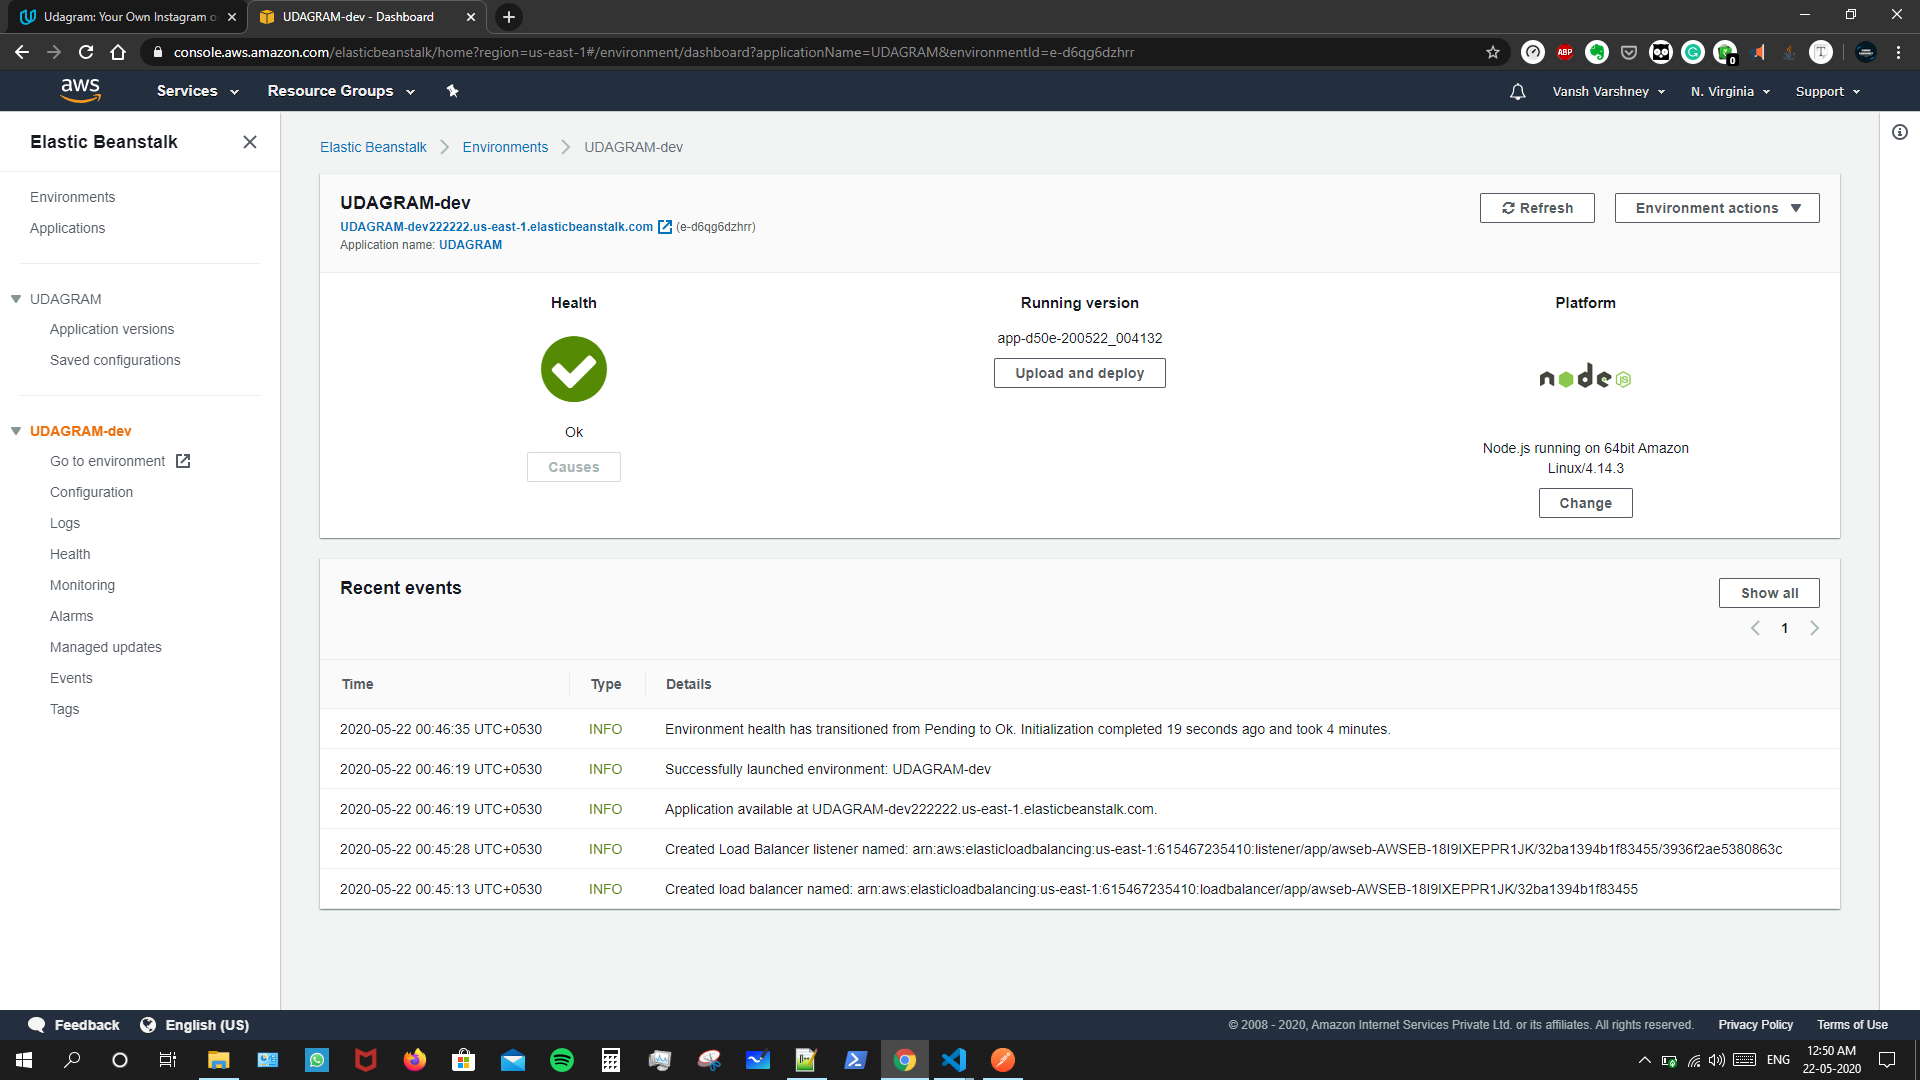
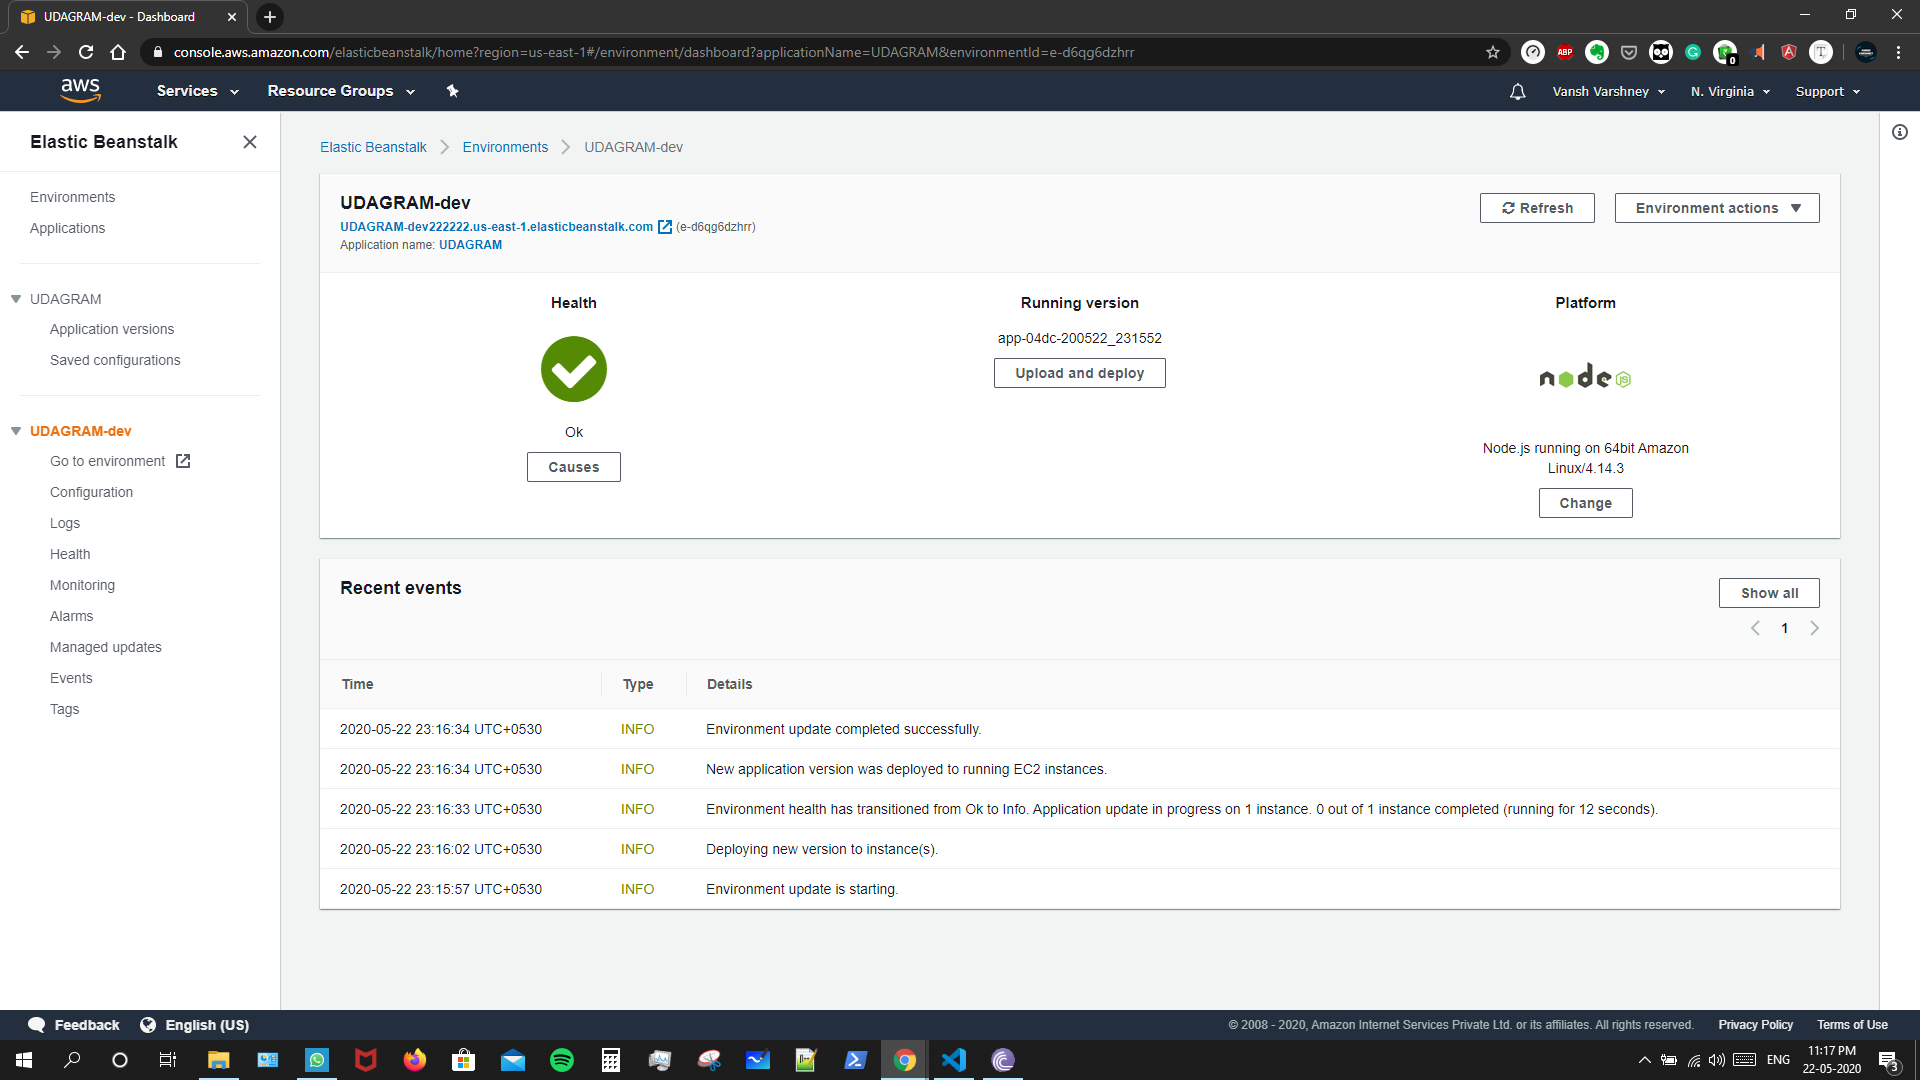
Issue fixed Updateing Server.ts

diff --git a/src/server.ts b/src/server.ts
@@ -1,8 +1,7 @@
-import express from 'express';
-import bodyParser from 'body-parser';
-import {filterImageFromURL, deleteLocalFiles} from './util/util';
-import { Request, Response } from 'express';
+import express, { Request, Response } from 'express';
 
+import bodyParser from 'body-parser';
+import { filterImageFromURL, deleteLocalFiles } from './util/util';
 
 (async () => {
 
@@ -12,63 +11,40 @@ import { Request, Response } from 'express';
   // Set the network port
   const port = process.env.PORT || 8082;
 
-  const image_url = /(http(s?):)([/|.|\w|\s|-])*\.(?:jpeg|jpg|gif|png|svg)/
-  
+  // Use the body parser middleware for post requests
   app.use(bodyParser.json());
-  
-  app.use(function (Request, Response, next) {
-    if (Request.path != '/filteredimage') {
-      Response.send("try GET /filteredimage?image_url={{}}")
-    }
-    next()
-  })
 
-  app.get("/filteredimage", async (Request, Response) => {
- 
-    let { image_url } = Request.query;
-    
+  app.get("/filteredimage/", async (req: Request, res: Response) => {
+    let { image_url } = req.query;
+
     if (!image_url) {
-      Response.status(400).send("Image Url Missing")
-    }else {
-
-      console.log(image_url.match(image_url))
-      if (!image_url.match(image_url)) {
-        Response.status(400).send("Give The Url Of Image")
-      }else {
-        
-        try {
-          let image_Response = await filterImageFromURL(image_url)
-    
-          if(image_Response != "no image found"){
-            Response.status(200).sendFile(image_Response, async callback=>{
-              await deleteLocalFiles([image_Response])
-            })
-          } else {
-            Response.status(200).send("Error No Image URL")
-          }
-        } catch (err) {
-          
-          console.error(err)
-          Response.status(200).send("Failed")
-        }
-      }
+      return res.status(400).send(`image_url is required`);
     }
-  } );
 
-  
+    try {
+      const filteredpath = await filterImageFromURL(image_url)
 
-  //! END @TODO1
-  
+      await res.status(200).sendFile(filteredpath, {}, (err) => {
+        if (err) { return res.status(422).send(`Not able to process the image`); }
+        // Deleting the used image file.
+        deleteLocalFiles([filteredpath])
+      })
+    } catch (err) {
+      res.status(422).send(`Not able to process the image, Make sure image url is correct`);
+    }
+  });
+
+
   // Root Endpoint
   // Displays a simple message to the user
-  app.get( "/", async ( Request, Response ) => {
-    Response.send("try GET /filteredimage?image_url={{}}")
-  } );
-  
+  app.get("/", async (req, res) => {
+    res.status(200).send("try GET /filteredimage?image_url={{}}")
+  });
+
 
   // Start the Server
-  app.listen( port, () => {
-      console.log( `server running http://localhost:${ port }` );
-      console.log( `press CTRL+C to stop server` );
-  } );
+  app.listen(port, () => {
+    console.log(`server running http://localhost:${port}`);
+    console.log(`press CTRL+C to stop server`);
+  });
 })();

diff --git a/src/util/util.ts b/src/util/util.ts
@@ -8,23 +8,21 @@ import Jimp = require('jimp');
 //    inputURL: string - a publicly accessible url to an image file
 // RETURNS
 //    an absolute path to a filtered image locally saved file
-export async function filterImageFromURL(inputURL: string): Promise<string>{
-    return new Promise( async resolve => {
+export async function filterImageFromURL(inputURL: string): Promise<string> {
+    return new Promise(async (resolve, reject) => {
         try {
             const photo = await Jimp.read(inputURL);
-            const outpath = '/tmp/filtered.'+Math.floor(Math.random() * 2000)+'.jpg';
+            const outpath = '/tmp/filtered.' + Math.floor(Math.random() * 2000) + '.jpg';
             await photo
-            .resize(256, 256) // resize
-            .quality(60) // set JPEG quality
-            .greyscale() // set greyscale
-            .write(__dirname+outpath, (img)=>{
-            resolve(__dirname+outpath);
-            });
-        } catch (error) {
-            resolve("no image found")
-            
+                .resize(256, 256) // resize
+                .quality(60) // set JPEG quality
+                .greyscale() // set greyscale
+                .write(__dirname + outpath, (img) => {
+                    resolve(__dirname + outpath);
+                });
+        } catch (err) {
+            reject(err)
         }
-        
     });
 }
 
@@ -33,8 +31,8 @@ export async function filterImageFromURL(inputURL: string): Promise<string>{
 // useful to cleanup after tasks
 // INPUTS
 //    files: Array<string> an array of absolute paths to files
-export async function deleteLocalFiles(files:Array<string>){
-    for( let file of files) {
+export async function deleteLocalFiles(files: Array<string>) {
+    for (let file of files) {
         fs.unlinkSync(file);
     }
 }
